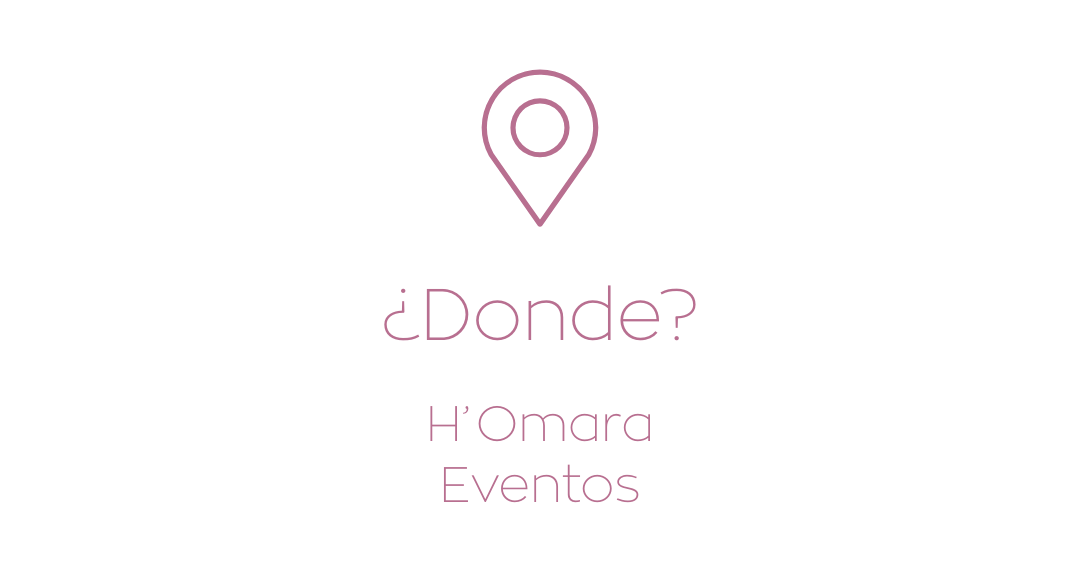
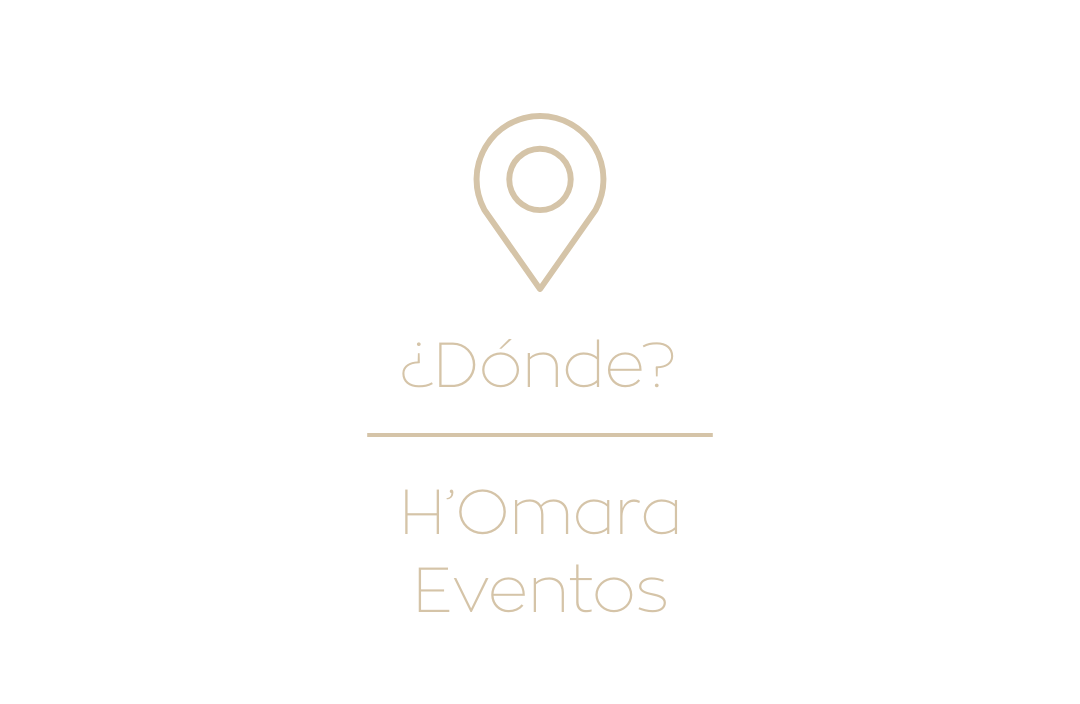
hola

diff --git a/index.html b/index.html
@@ -40,14 +40,14 @@
     <img class="cuando" src="./imagenes/20.png" alt="">
     <img class="donde" src="./imagenes/10.png" alt="">
 
-    <a href="https://www.google.com/maps/dir/?api=1&destination=RN5+km+71,+B6700+Luján,+Provincia+de+Buenos+Aires" target="_blank" style="display:inline-block;padding:10px 20px;background-color:#b86f90;color:white;text-decoration:none;border-radius:4px;font-family:Arial, sans-serif;">
+    <a href="https://www.google.com/maps/dir/?api=1&destination=RN5+km+71,+B6700+Luján,+Provincia+de+Buenos+Aires" target="_blank" style="display:inline-block;padding:10px 20px;background-color:#dacaad;color:white;text-decoration:none;border-radius:4px;font-family:Arial, sans-serif;">
         Cómo llegar
     </a>
 
     <img class="imgExtra container" src="./imagenes/04.jpeg" alt="">
 
     <div class="pago container">
-        <p class="FraseRegalo">“¡Gracias por acompañarnos en este día tan especial! Tu regalo será muy bien recibido; podés dejarlo en la urna del salón o realizarlo mediante el alias 💌”</p>
+        <p class="FraseRegalo">“El mejor regalo para mi es que  puedas acompañarme en este dia tan especial, pero de todas formas si queres darme un presente en el salon habrá una urna”</p>
         <p><span id="alias">irebranluchetti</span></p>
         <button class="btn-copiar" onclick="copiarAlias()">Copiar alias</button>
         <p id="mensaje-copiado"></p>

diff --git a/style.css b/style.css
@@ -52,14 +52,14 @@ footer {
 .time span {
   font-size: 2.8rem;  /* números grandes */
   font-weight: 300;
-  color: #b86f90;
+  color: #dacaad;
 }
 
 .label {
   font-size: 0.75rem;
   letter-spacing: 2px;
   text-transform: uppercase;
-  color: #b86f90;
+  color: #dacaad;
   margin-top: 6px;
 }
 
@@ -107,7 +107,7 @@ footer {
 .pago {
   font-family: "Crimson Pro", serif;
   margin: 20px;
-  background-color:#b86f90;
+  background-color:#dacaad;
   font-size: 2rem;
 }
 
@@ -120,7 +120,7 @@ footer {
 .btn-copiar {
   display: inline-block;
   padding: 10px 20px;
-  background-color: #fc3c92;
+  background-color: #ffda96;
   color: white;
   border: none;
   border-radius: 6px;
@@ -131,7 +131,7 @@ footer {
 }
 
 .btn-copiar:hover {
-  background-color: #fc3c92;
+  background-color: #ffda96;
 }
 
 #mensaje-copiado {
@@ -153,7 +153,7 @@ footer {
 .botonW {
     font-family: "Crimson Pro", serif;
     font-size: 2rem;
-    color: #b86f90;
+    color: #dacaad;
 }
 .wap{
     width: 5rem;
@@ -162,10 +162,10 @@ footer {
 .fraseFinal{
     font-family: "Crimson Pro", serif;
     font-size: 2rem;
-    color: #b86f90;
+    color: #dacaad;
 }
 footer{
-    background-color: #b86f90;
+    background-color: #dacaad;
     color: black;
     margin-top: 30px;
     width: 100%;
